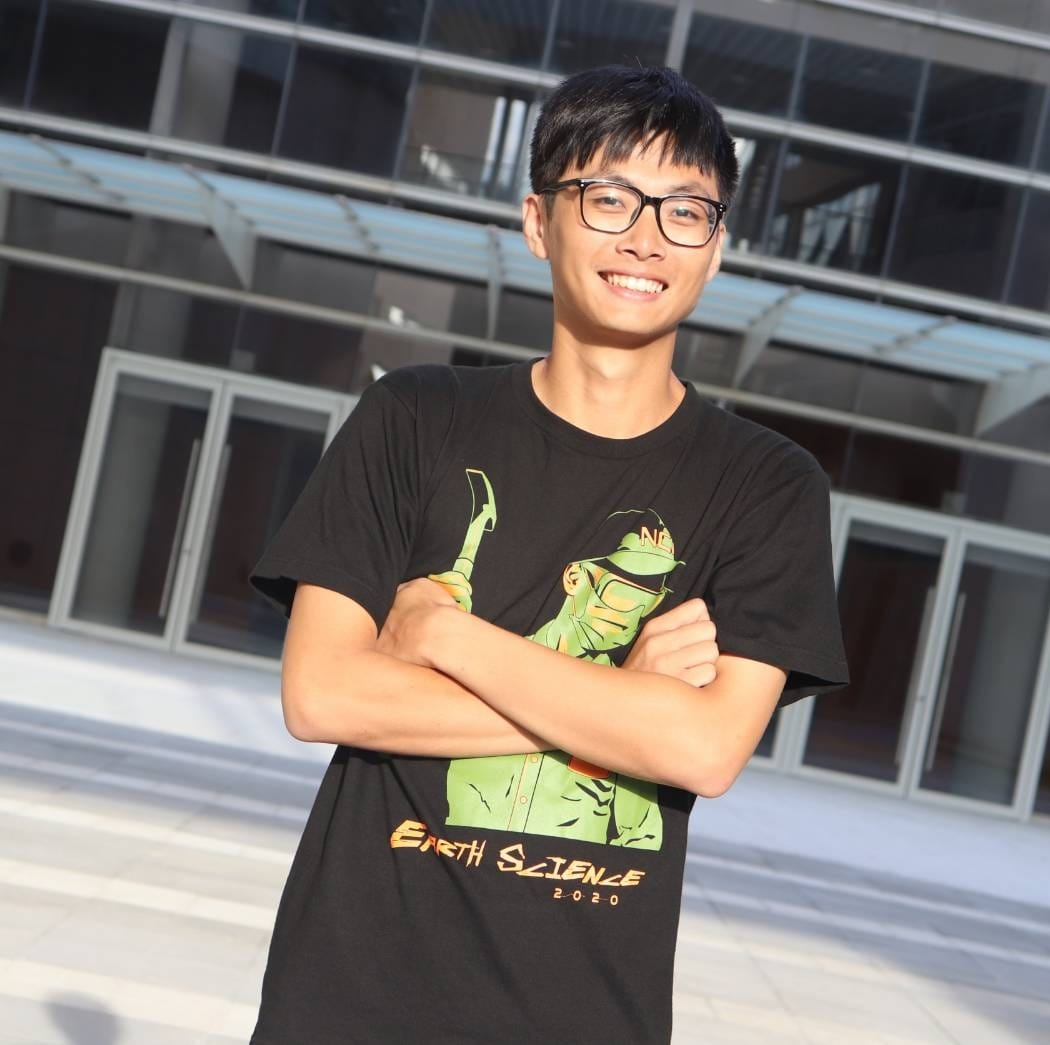
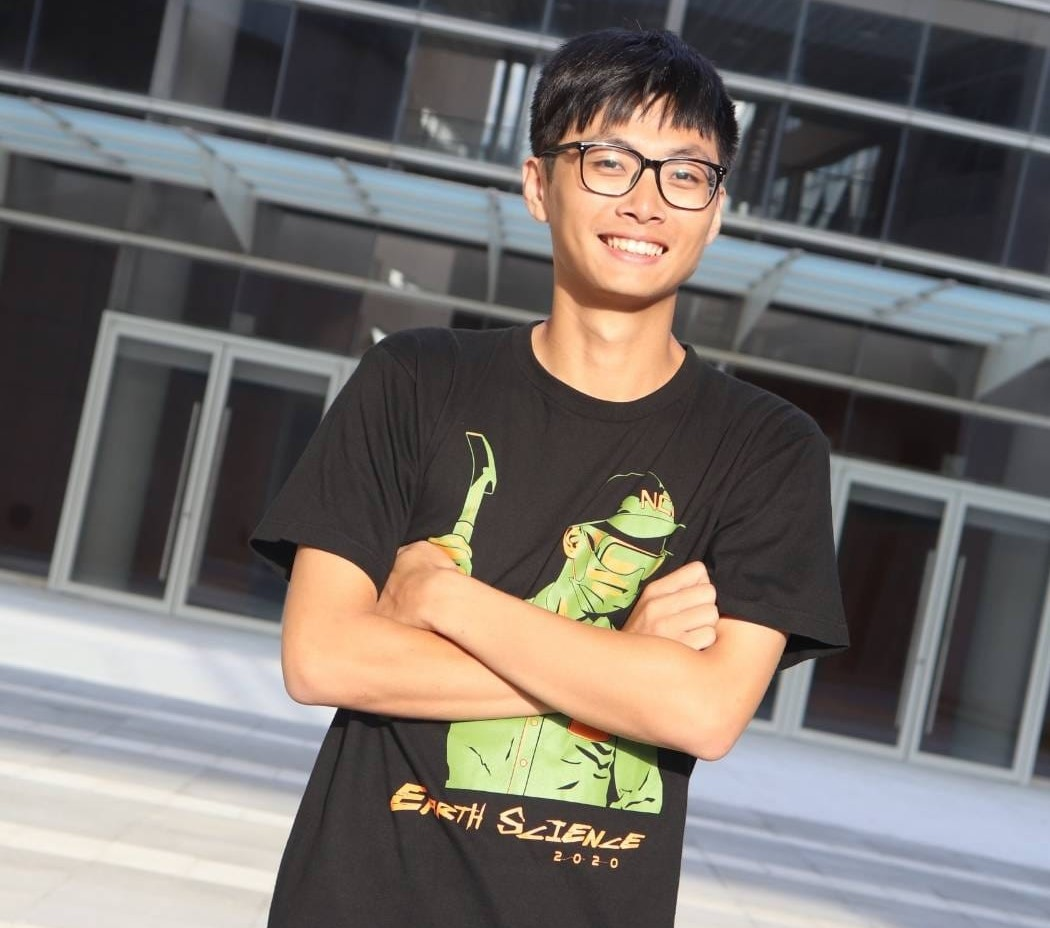
finish profile word

diff --git a/src/pages.js b/src/pages.js
@@ -79,7 +79,14 @@ const AboutPage = () => {
 
           <div className="section-title">
           <h2>關於我</h2>
-          <p>Magnam dolores commodi suscipit. Necessitatibus eius consequatur ex aliquid fuga eum quidem. Sit sint consectetur velit. Quisquam quos quisquam cupiditate. Et nemo qui impedit suscipit alias ea. Quia fugiat sit in iste officiis commodi quidem hic quas.</p>
+          <p>HI, 我是中央大學碩士二年級的學生，目前有接網站開發任務，包括個人網站建立、企業網站建立等，如有需求歡迎聯繫。
+          <br />
+          <br />
+            我主要技能與專長是網站前後端、雲端、資料分析、自動化流程。
+            除上述的技能，我也有豐富的社團參與與團隊領導經驗，以及多次獲獎的實績。
+            這些經驗不僅代表我的技術實力，更顯示出我在團隊合作、領導以及解決問題上的能力。
+          </p>
+          <br />
           </div>
 
           <div className="row">
@@ -89,9 +96,9 @@ const AboutPage = () => {
           <div className="col-lg-8 pt-4 pt-lg-0 content" data-aos="fade-left">
               <h3>Data Analyst. &amp; Web Developer.</h3>
               <p className="fst-italic">
-              Lorem ipsum dolor sit amet, consectetur adipiscing elit, sed do eiusmod tempor incididunt ut labore et dolore
-              magna aliqua.
+              過去的經驗使我不局限於某個職位或學識，使我不僅能夠靈活應對各種挑戰，也能夠跨越不同領域的限制，
               </p>
+              <br />
               <div className="row">
               <div className="col-lg-6">
                   <ul>
@@ -108,10 +115,7 @@ const AboutPage = () => {
                   </ul>
               </div>
               </div>
-              <p>
-              Officiis eligendi itaque labore et dolorum mollitia officiis optio vero. Quisquam sunt adipisci omnis et ut. Nulla accusantium dolor incidunt officia tempore. Et eius omnis.
-              Cupiditate ut dicta maxime officiis quidem quia. Sed et consectetur qui quia repellendus itaque neque. Aliquid amet quidem ut quaerat cupiditate. Ab et eum qui repellendus omnis culpa magni laudantium dolores.
-              </p>
+              
           </div>
           </div>
       </div>
@@ -128,7 +132,6 @@ const ResumePage = () => {
 
           <div className="section-title">
           <h2>簡歷(Resume)</h2>
-          <p>HI, 我是中央大學碩士二年級的學生，目前有接網站開發任務，如有需求歡迎聯繫。</p>
           </div>
 
           <div className="row">
@@ -189,9 +192,8 @@ const ContactPage = () => {
 
           <div className="section-title">
           <h2>聯絡我</h2>
-          <p>Magnam dolores commodi suscipit. Necessitatibus eius consequatur ex aliquid fuga eum quidem. Sit sint consectetur velit. Quisquam quos quisquam cupiditate. Et nemo qui impedit suscipit alias ea. Quia fugiat sit in iste officiis commodi quidem hic quas.</p>
           </div>
-
+          <p>目前有接網站開發任務，包括個人網站建立、企業網站建立等，如有需求歡迎聯繫。</p>
           <div className="row" data-aos="fade-in">
 
           <div className="col-lg-5 d-flex align-items-stretch">

diff --git a/src/assets/css/style.css b/src/assets/css/style.css
@@ -90,6 +90,10 @@ background: #f5f8fd;
 padding-bottom: 30px;
 }
 
+#about .row {
+  height: 300px;
+}
+
 .section-title h2 {
 font-size: 32px;
 font-weight: bold;
@@ -192,7 +196,9 @@ margin-bottom: 0;
     margin: 15px auto;
     display: block;
     width: 400px;
-    height: 400px;
+    height: 300px;
+    top: 0;
+    margin: 0;
     cursor: pointer;
     will-change: transform, opacity;
     background-image: url(../img/myself.jpg);
@@ -206,7 +212,10 @@ margin-bottom: 0;
     margin: 15px auto;
     display: block;
     width: 400px;
-    height: 400px;
+    height: 300px;
+    padding: 0;
+    top: 0;
+    margin: 0;
     cursor: pointer;
     will-change: transform, opacity;
     background-image: url(../img/myself2.jpg);
